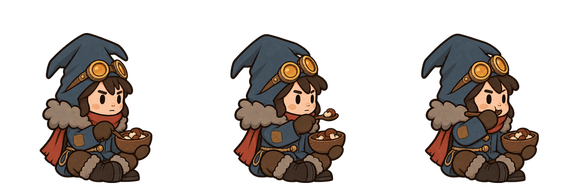
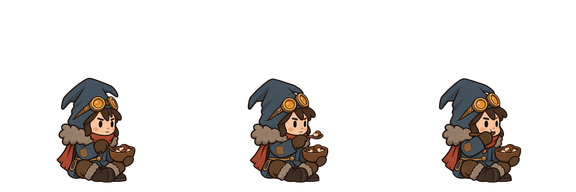
Stop survivors, bodies and buildings looking wrong
- Bodies drop to the ground before the cairn goes up, and the cairn only goes
  where it has room; the body fades out after a moment instead of lying by it.
- Wide buildings (hearth, mushroom bed) need open space and solid ground under
  their whole picture, digging under any part of one is refused, and a planned
  building whose ground is dug away is dropped.
- Buildings can't stand on water.
- Idle survivors never potter off a ledge; a tired survivor with nowhere free
  to lie stays up rather than sleeping on top of someone.
- Falls step out over the edge and then drop fast; the climb animation only
  plays on ladders; idle steps amble instead of dash-and-stop.
- Batch 1 eating and collapse poses were painted too big: the importer shrinks
  them to match the walk cycle, and the dead pose is no longer shrunk again.
- Dig squares stay square to the grid while the pickaxe rocks.
- examples/soak.rs plays the set maps with a random player and reports any of
  the above.

Claude-Session: https://claude.ai/code/session_01CnAPLVmM7EM6XrtgcdCSmW

Changed region(s): [[0.7188, 0.1562, 0.9375, 0.9688], [0.375, 0.1562, 0.625, 0.9688], [0.0625, 0.1562, 0.2812, 0.9688]]

diff --git a/apps/client/src/world-view.ts b/apps/client/src/world-view.ts
@@ -97,6 +97,8 @@ interface Survivor {
   warmth: number;
   /** Moving more up or down than sideways: on a ladder. */
   climbing: boolean;
+  /** Dropping with nothing underfoot. */
+  falling: boolean;
   /** Seconds since they last moved on screen, so the walking pose outlasts a brief pause between steps. */
   still: number;
   stride: number;
@@ -301,7 +303,7 @@ export class WorldView {
       const part = (name: string) => model.getObjectByName(name)!;
       const parts = { legL: part('legL'), legR: part('legR'), armF: part('armF'), armB: part('armB'), head: part('head'), tool: part('tool') };
       this.scene.add(model);
-      this.survivors.push({ model, parts, target: new THREE.Vector3(), pos: new THREE.Vector3(), facing: 1, activity: 0, cell: 0, job: -1, warmth: STAT_MAX, climbing: false, still: 10, stride: 0, dead: 0, index: i });
+      this.survivors.push({ model, parts, target: new THREE.Vector3(), pos: new THREE.Vector3(), facing: 1, activity: 0, cell: 0, job: -1, warmth: STAT_MAX, climbing: false, still: 10, stride: 0, dead: 0, falling: false, index: i });
     }
 
     const first = frame.buildings.indexOf(Building.Hearth);
@@ -687,10 +689,12 @@ export class WorldView {
         const object = kind === 0 ? makeModel('dig-marker') : this.ghost(building);
         object.position.set(p.x, kind === 0 ? p.y : p.y - 0.5, kind === 0 ? 0.75 : 0);
         if (kind === 0) {
-          // A faint ember square marks the cell itself.
+          // A faint ember square marks the cell itself. It stays square to the
+          // grid while the pickaxe above it rocks.
           const square = new THREE.Mesh(new THREE.PlaneGeometry(0.92, 0.92), this.digMaterial);
-          square.position.set(0, 0, -0.7);
-          object.add(square);
+          square.position.set(p.x, p.y, 0.05);
+          this.markerGroup.add(square);
+          object.userData.square = square;
         }
         const bar = new THREE.Mesh(new THREE.PlaneGeometry(0.8, 0.08), this.barMaterial);
         bar.position.set(p.x, p.y - 0.42, 0.8);
@@ -704,7 +708,7 @@ export class WorldView {
     }
     for (const [key, marker] of this.markers) {
       if (marker.seen) continue;
-      this.markerGroup.remove(marker.object, marker.bar);
+      this.markerGroup.remove(marker.object, marker.bar, ...(marker.object.userData.square ? [marker.object.userData.square] : []));
       this.markers.delete(key);
     }
   }
@@ -900,20 +904,34 @@ export class WorldView {
   private glide(s: Survivor, dt: number) {
     const dx = s.target.x - s.pos.x, dy = s.target.y - s.pos.y;
     const dist = Math.hypot(dx, dy);
-    if (dist > 2.5) {
-      s.pos.copy(s.target); // teleported (a fall, or the first frame)
+    s.falling = false;
+    if (dist > 6) {
+      s.pos.copy(s.target); // teleported (the first frame)
       s.still = 10;
       return false;
     }
     if (dist < 0.002) {
       s.still += dt;
-      return s.still < 0.18 && s.activity === 1;
+      return s.still < 0.18 && s.activity <= 1;
     }
-    const step = Math.min(dist, WALK_SPEED * dt * (dy < -0.3 ? 1.6 : 1)); // falls are quick
-    s.pos.x += (dx / dist) * step;
-    s.pos.y += (dy / dist) * step;
+    const onLadder = this.lastBuildings?.[s.cell] === Building.Ladder || this.lastBuildings?.[s.cell + this.width] === Building.Ladder;
+    const falling = dy < -0.3 && !onLadder;
+    // Falls drop like a stone (the sim moves a cell a tick); idle pottering is
+    // an amble, so it reads as slow walking rather than stop-start dashes.
+    const amble = s.activity === 0 && dist < 1.05; // idle steps come every 6 ticks
+    const speed = falling ? 14 : amble ? WALK_SPEED / 3 : WALK_SPEED * Math.max(1, dist);
+    const step = Math.min(dist, speed * dt);
+    if (falling && Math.abs(dx) > 0.01) {
+      // Off a ledge: step out over the edge, then drop, never drift through the air.
+      s.pos.x += Math.sign(dx) * Math.min(Math.abs(dx), 2 * WALK_SPEED * dt);
+      if (Math.abs(dx) < 0.5) s.pos.y += Math.max(dy, -14 * dt);
+    } else {
+      s.pos.x += (dx / dist) * step;
+      s.pos.y += (dy / dist) * step;
+    }
     if (Math.abs(dx) > 0.05) s.facing = Math.sign(dx);
-    s.climbing = Math.abs(dy) > Math.abs(dx);
+    s.climbing = onLadder && Math.abs(dy) > Math.abs(dx);
+    s.falling = falling;
     s.still = 0;
     s.stride += step;
     return true;
@@ -981,9 +999,11 @@ export class WorldView {
     s.corpse.visible = true;
     s.corpse.position.copy(s.pos);
     s.corpse.rotation.y = s.facing > 0 ? 0 : Math.PI;
-    // Sink into the ground over a few seconds, leaving the cairn.
-    const gone = Math.min(Math.max((s.dead - 6) / 4, 0), 1);
-    s.corpse.position.y -= gone * 0.6;
+    // The body lies a moment, then fades and leaves only the cairn.
+    const gone = Math.min(Math.max((s.dead - 1.5) / 0.8, 0), 1);
+    s.corpse.traverse((o) => {
+      if (o instanceof THREE.Mesh) (o.material as THREE.MeshBasicMaterial).opacity = 1 - gone;
+    });
     s.corpse.visible = gone < 1;
     return true;
   }
@@ -999,7 +1019,8 @@ export class WorldView {
       model.rotation.set(0, s.facing > 0 ? 0 : Math.PI, 0);
       model.scale.set(1, 1, 1);
       const cold = 1 - s.warmth / STAT_MAX;
-      if (moving && s.climbing) play('climb', s.stride * 4);
+      if (s.falling) play('idle', 0);
+      else if (moving && s.climbing) play('climb', s.stride * 4);
       else if (moving) play(s.job === 2 ? 'carry' : 'walk', (s.stride / 1.2) * 6 + i);
       else if (s.activity === 2) play(s.job === 0 ? 'dig' : 'build', t * (s.job === 0 ? 6 : 7) + i);
       else if (s.activity === 4) play('eat', t * 2.5 + i);

diff --git a/apps/client/src/sprites.ts b/apps/client/src/sprites.ts
@@ -228,7 +228,7 @@ if (has('survivor-0-idle')) {
   registerModel('survivor-dead', (variant = 0) => {
     const g = new THREE.Group();
     g.userData.flat = true;
-    const { book } = survivorStrip(variant, 'dead', LYING);
+    const { book } = survivorStrip(variant, 'dead'); // the last collapse frame, so the same size
     book.name = 'body';
     g.add(book);
     return g;

diff --git a/crates/sim/examples/soak.rs b/crates/sim/examples/soak.rs
@@ -1,0 +1,121 @@
+//! Plays the set maps with a random player and reports anything that would
+//! look wrong on screen: survivors floating or inside rock, buildings in walls
+//! or over thin air, sleepers on top of each other.
+//!
+//! `cargo run --release -p sim --example soak [days]`
+use sim::{reach, Activity, Building, Command, Rng, Sim};
+
+const MAPS: [(&str, u64); 3] = [("Hearth Hollow", 7), ("The Long Gallery", 1234), ("Frostbite", 99_999)];
+const BUILDS: [Building; 6] = [Building::Ladder, Building::Hearth, Building::MushroomBed, Building::OxygenDiffuser, Building::Lamp, Building::Bed];
+
+fn main() {
+    let days: u64 = std::env::args().nth(1).and_then(|d| d.parse().ok()).unwrap_or(3);
+    let mut failed = false;
+    for (name, seed) in MAPS {
+        for run in 0..3 {
+            let problems = soak(seed, run, days);
+            println!("{name} run {run}: {}", if problems.is_empty() { "clean".to_string() } else { format!("{} problems", problems.len()) });
+            for p in problems.iter().take(8) {
+                println!("  {p}");
+            }
+            failed |= !problems.is_empty();
+        }
+    }
+    if failed {
+        std::process::exit(1);
+    }
+}
+
+fn open(sim: &Sim, x: i32, y: i32) -> bool {
+    x >= 0 && y >= 0 && x < sim.width as i32 && y < sim.height as i32 && sim.elements[(y as u32 * sim.width + x as u32) as usize].is_open()
+}
+
+fn soak(seed: u64, run: u64, days: u64) -> Vec<String> {
+    let mut sim = Sim::new(seed, 160, 110);
+    let mut rng = Rng::new(seed ^ (run + 1) * 0x9e37_79b9);
+    let mut problems = Vec::new();
+    let mut hanging = vec![0u32; sim.colonists.len()];
+    let mut last_y: Vec<u32> = sim.colonists.iter().map(|c| c.y).collect();
+    let w = sim.width as i32;
+    for _ in 0..days * sim::DAY_TICKS {
+        let mut commands = Vec::new();
+        if sim.tick % 40 == 0 {
+            // Act near a random living survivor, like a player would.
+            let alive: Vec<_> = sim.colonists.iter().filter(|c| c.alive()).collect();
+            if !alive.is_empty() {
+                let c = alive[rng.below(alive.len() as u32) as usize];
+                for _ in 0..6 {
+                    let x = (c.x as i32 + rng.below(21) as i32 - 10).clamp(0, w - 1);
+                    let y = (c.y as i32 + rng.below(13) as i32 - 6).clamp(0, sim.height as i32 - 1);
+                    let (x, y) = (x as u32, y as u32);
+                    if rng.below(3) == 0 {
+                        let building = BUILDS[rng.below(BUILDS.len() as u32) as usize];
+                        commands.push(Command::Build { x, y, building });
+                    } else {
+                        commands.push(Command::Dig { x, y });
+                    }
+                }
+            }
+        }
+        sim.step(&commands);
+        let t = sim.tick;
+
+        for (c, col) in sim.colonists.iter().enumerate() {
+            let (x, y) = (col.x as i32, col.y as i32);
+            if !open(&sim, x, y) {
+                problems.push(format!("tick {t}: survivor {c} inside rock at {x},{y}"));
+            }
+            let ladder = |x: i32, y: i32| open(&sim, x, y) && sim.buildings[(y * w + x) as usize] == Building::Ladder;
+            let held = ladder(x, y) || !open(&sim, x, y + 1) || ladder(x, y + 1);
+            // Falling drops a cell every tick; unheld without dropping is floating.
+            let dropped = col.y > last_y[c];
+            last_y[c] = col.y;
+            hanging[c] = if held || dropped { 0 } else { hanging[c] + 1 };
+            if hanging[c] > 1 {
+                problems.push(format!("tick {t}: survivor {c} ({:?}) floating at {x},{y}", col.activity));
+            }
+            if !col.alive() && hanging[c] > 0 {
+                problems.push(format!("tick {t}: body {c} in mid-air at {x},{y}"));
+            }
+            if col.activity == Activity::Sleeping {
+                for (o, other) in sim.colonists.iter().enumerate().skip(c + 1) {
+                    if other.activity == Activity::Sleeping && other.y == col.y && other.x.abs_diff(col.x) <= 1 && sim.buildings[(y * w + x) as usize] != Building::Bed {
+                        problems.push(format!("tick {t}: sleepers {c} and {o} on top of each other at {x},{y} ({:?} {:?} / {},{} {:?})", sim.buildings[(y * w + x) as usize], col.bed.map(|b| (b % sim.width, b / sim.width)), other.x, other.y, other.bed.map(|b| (b % sim.width, b / sim.width))));
+                    }
+                }
+            }
+        }
+
+        for (i, &b) in sim.buildings.iter().enumerate() {
+            if b == Building::None {
+                continue;
+            }
+            let (x, y) = (i as i32 % w, i as i32 / w);
+            let r = reach(b) as i32;
+            for dx in -r..=r {
+                if !open(&sim, x + dx, y) {
+                    problems.push(format!("tick {t}: {b:?} at {x},{y} drawn into rock"));
+                } else if b != Building::Ladder && open(&sim, x + dx, y + 1) {
+                    problems.push(format!("tick {t}: {b:?} at {x},{y} hangs over air"));
+                }
+                // Neighbours overlapping its picture.
+                for ox in x - r - 1..=x + r + 1 {
+                    if ox <= x || ox < 0 || ox >= w {
+                        continue;
+                    }
+                    let other = sim.buildings[(y * w + ox) as usize];
+                    if other != Building::None && (ox - x) as u32 <= reach(b) + reach(other) && dx == 0 {
+                        problems.push(format!("tick {t}: {b:?} at {x},{y} overlaps {other:?} at {ox},{y}"));
+                    }
+                }
+            }
+        }
+        if problems.len() > 5000 {
+            break;
+        }
+    }
+    // Report each problem once, at the tick it first showed.
+    let mut seen = std::collections::HashSet::new();
+    problems.retain(|p| seen.insert(p.split_once(": ").map_or(p.clone(), |(_, what)| what.to_string())));
+    problems
+}

diff --git a/crates/sim/src/jobs.rs b/crates/sim/src/jobs.rs
@@ -95,12 +95,7 @@ impl Sim {
     /// Whether `b` can go at (x, y): open, empty, and clear of every building
     /// and planned building on the row by their combined [`reach`].
     pub fn room_for(&self, x: u32, y: u32, b: Building) -> bool {
-        let i = self.idx(x, y);
-        if !self.elements[i].is_open() || self.buildings[i] != Building::None {
-            return false;
-        }
-        // Everything but a ladder stands on solid floor.
-        if b != Building::Ladder && (y + 1 >= self.height || self.elements[self.idx(x, y + 1)].is_open()) {
+        if self.buildings[self.idx(x, y)] != Building::None || !self.fits(x, y, b) {
             return false;
         }
         let clear = |ox: u32, other: Building| other == Building::None || x.abs_diff(ox) > reach(b) + reach(other);
@@ -113,10 +108,31 @@ impl Sim {
             })
     }
 
+    /// Whether `b`'s whole picture at (x, y) is in open cells and, for all but
+    /// a ladder, stands on solid ground (not water) all the way across.
+    pub fn fits(&self, x: u32, y: u32, b: Building) -> bool {
+        let r = reach(b) as i32;
+        (-r..=r).all(|dx| {
+            let (cx, cy) = (x as i32 + dx, y as i32);
+            self.open(cx, cy) && (b == Building::Ladder || (cy + 1 < self.height as i32 && self.elements[self.idx(cx as u32, cy as u32 + 1)].is_diggable()))
+        })
+    }
+
     /// Whether the cell is the floor under a building (ladders need none), so
     /// digging it out would leave the building floating.
     pub fn holds_up_building(&self, x: u32, y: u32) -> bool {
-        y > 0 && !matches!(self.buildings[self.idx(x, y - 1)], Building::None | Building::Ladder)
+        if y == 0 {
+            return false;
+        }
+        // Wide buildings rest on the cells under their whole picture.
+        (-1..=1).any(|dx: i32| {
+            let ox = x as i32 + dx;
+            if ox < 0 || ox >= self.width as i32 {
+                return false;
+            }
+            let b = self.buildings[self.idx(ox as u32, y - 1)];
+            b != Building::Ladder && b != Building::None && dx.unsigned_abs() <= reach(b)
+        })
     }
 
     pub(crate) fn job_doable(&self, job: &Job) -> bool {
@@ -124,7 +140,7 @@ impl Sim {
         match job.kind {
             JobKind::Dig => self.elements[i].is_diggable() && !self.holds_up_building(job.x, job.y),
             JobKind::Build(b) => {
-                self.elements[i].is_open() && self.buildings[i] == Building::None && self.coal >= build_cost(b)
+                self.buildings[i] == Building::None && self.fits(job.x, job.y, b) && self.coal >= build_cost(b)
             }
             JobKind::Refuel => self.buildings[i] == Building::Hearth && self.coal > 0,
         }
@@ -182,10 +198,8 @@ impl Sim {
             let job = &self.jobs[k];
             let stale = match job.kind {
                 JobKind::Dig => !self.elements[self.idx(job.x, job.y)].is_diggable(),
-                JobKind::Build(_) => {
-                    let i = self.idx(job.x, job.y);
-                    !self.elements[i].is_open() || self.buildings[i] != Building::None
-                }
+                // Ground dug out from under a planned building drops the plan.
+                JobKind::Build(b) => self.buildings[self.idx(job.x, job.y)] != Building::None || !self.fits(job.x, job.y, b),
                 JobKind::Refuel => self.buildings[self.idx(job.x, job.y)] != Building::Hearth,
             };
             if stale {

diff --git a/crates/sim/src/colonist.rs b/crates/sim/src/colonist.rs
@@ -203,8 +203,15 @@ impl Sim {
                     job.claimed_by = None;
                 }
             }
-            // Leave a cairn where they fell, unless something already stands there.
-            if self.buildings[i] == Building::None {
+            // The body comes to rest on the ground, and a cairn goes up there if
+            // it has room, never in mid-air or over another building.
+            let (x, mut y) = (col.x as i32, col.y as i32);
+            while !self.supported(x, y) && self.open(x, y + 1) {
+                y += 1;
+            }
+            self.colonists[c].y = y as u32;
+            if self.room_for(x as u32, y as u32, Building::Cairn) {
+                let i = self.idx(x as u32, y as u32);
                 self.buildings[i] = Building::Cairn;
             }
             self.push_event(EVENT_DEATH, c as u32);
@@ -311,7 +318,16 @@ impl Sim {
         if tired && col.activity != Activity::Working {
             self.release_job(c);
             if !self.go_to_bed(c) && !self.go_to_floor(c) {
-                self.colonists[c].activity = Activity::Sleeping; // right where they stand
+                // Nowhere free in reach: lie down right here, unless that is on
+                // top of someone else, in which case stay up and look again.
+                let col = &self.colonists[c];
+                let (x, y) = (col.x, col.y);
+                let crowded = self.colonists.iter().enumerate().any(|(o, other)| {
+                    o != c && other.alive() && other.y == y && other.x.abs_diff(x) <= 1 && (other.activity == Activity::Sleeping || other.bed.is_some())
+                });
+                if !crowded {
+                    self.colonists[c].activity = Activity::Sleeping;
+                }
             }
             return;
         }
@@ -618,7 +634,9 @@ impl Sim {
             m = 0;
         }
         for &(mx, my) in &moves[..n] {
-            if (!here_lit || !self.is_dark(self.idx(mx as u32, my as u32))) && !crowded(mx, my) {
+            // Pottering never takes anyone off a ledge or onto a ladder.
+            let floor = self.supported(mx, my) && !self.ladder(mx, my) && my == y;
+            if floor && (!here_lit || !self.is_dark(self.idx(mx as u32, my as u32))) && !crowded(mx, my) {
                 options[m] = (mx, my);
                 m += 1;
             }

diff --git a/scripts/import-codex-art.py b/scripts/import-codex-art.py
@@ -44,6 +44,24 @@ CROP = {"pickaxe": "props/pickaxe.png"}
 # Strips of FRAME x FRAME cells, scaled to SHOWN.
 ANIMS = ["idle", "walk", "dig", "build", "carry", "climb", "celebrate", "cold", "sleep"]
 POSES = ["eat", "collapse", "dead"]
+# Batch 1 painted some whole-body poses bigger than the rigged animations.
+# Shrink them about the feet so heads match the walk cycle. Drop an entry once
+# Codex repaints that pose at the right scale.
+POSE_SCALE = {
+    ("esk", "eat"): 0.7, ("esk", "collapse"): 0.8, ("esk", "dead"): 0.8,
+    ("mara", "eat"): 0.8, ("mara", "collapse"): 0.8, ("mara", "dead"): 0.8,
+}
+FEET = 304  # feet row in a survivor frame
+
+
+def rescale(img, k):
+    """Scale every frame of a strip by k about the centre of its feet row."""
+    out = Image.new("RGBA", img.size)
+    side = round(FRAME * k)
+    for f in range(img.width // FRAME):
+        frame = img.crop((f * FRAME, 0, (f + 1) * FRAME, FRAME)).resize((side, side), Image.LANCZOS)
+        out.paste(frame, (f * FRAME + (FRAME - side) // 2, FEET - round(FEET * k)), frame)
+    return out
 
 
 def main():
@@ -59,7 +77,9 @@ def main():
         base = src / "characters" / who
         strips = {a: base / "anim" / f"{a}.png" for a in ANIMS} | {p: base / "poses" / f"{p}.png" for p in POSES}
         for name, path in strips.items():
-            img = Image.open(path)
+            img = Image.open(path).convert("RGBA")
+            if (who, name) in POSE_SCALE:
+                img = rescale(img, POSE_SCALE[(who, name)])
             frames = img.width // FRAME
             img.resize((frames * SHOWN, SHOWN), Image.LANCZOS).save(ART / f"survivor-{v}-{name}.png", optimize=True)
         Image.open(base / "portrait.png").resize((128, 128), Image.LANCZOS).save(ART / f"survivor-{v}-portrait.png", optimize=True)
